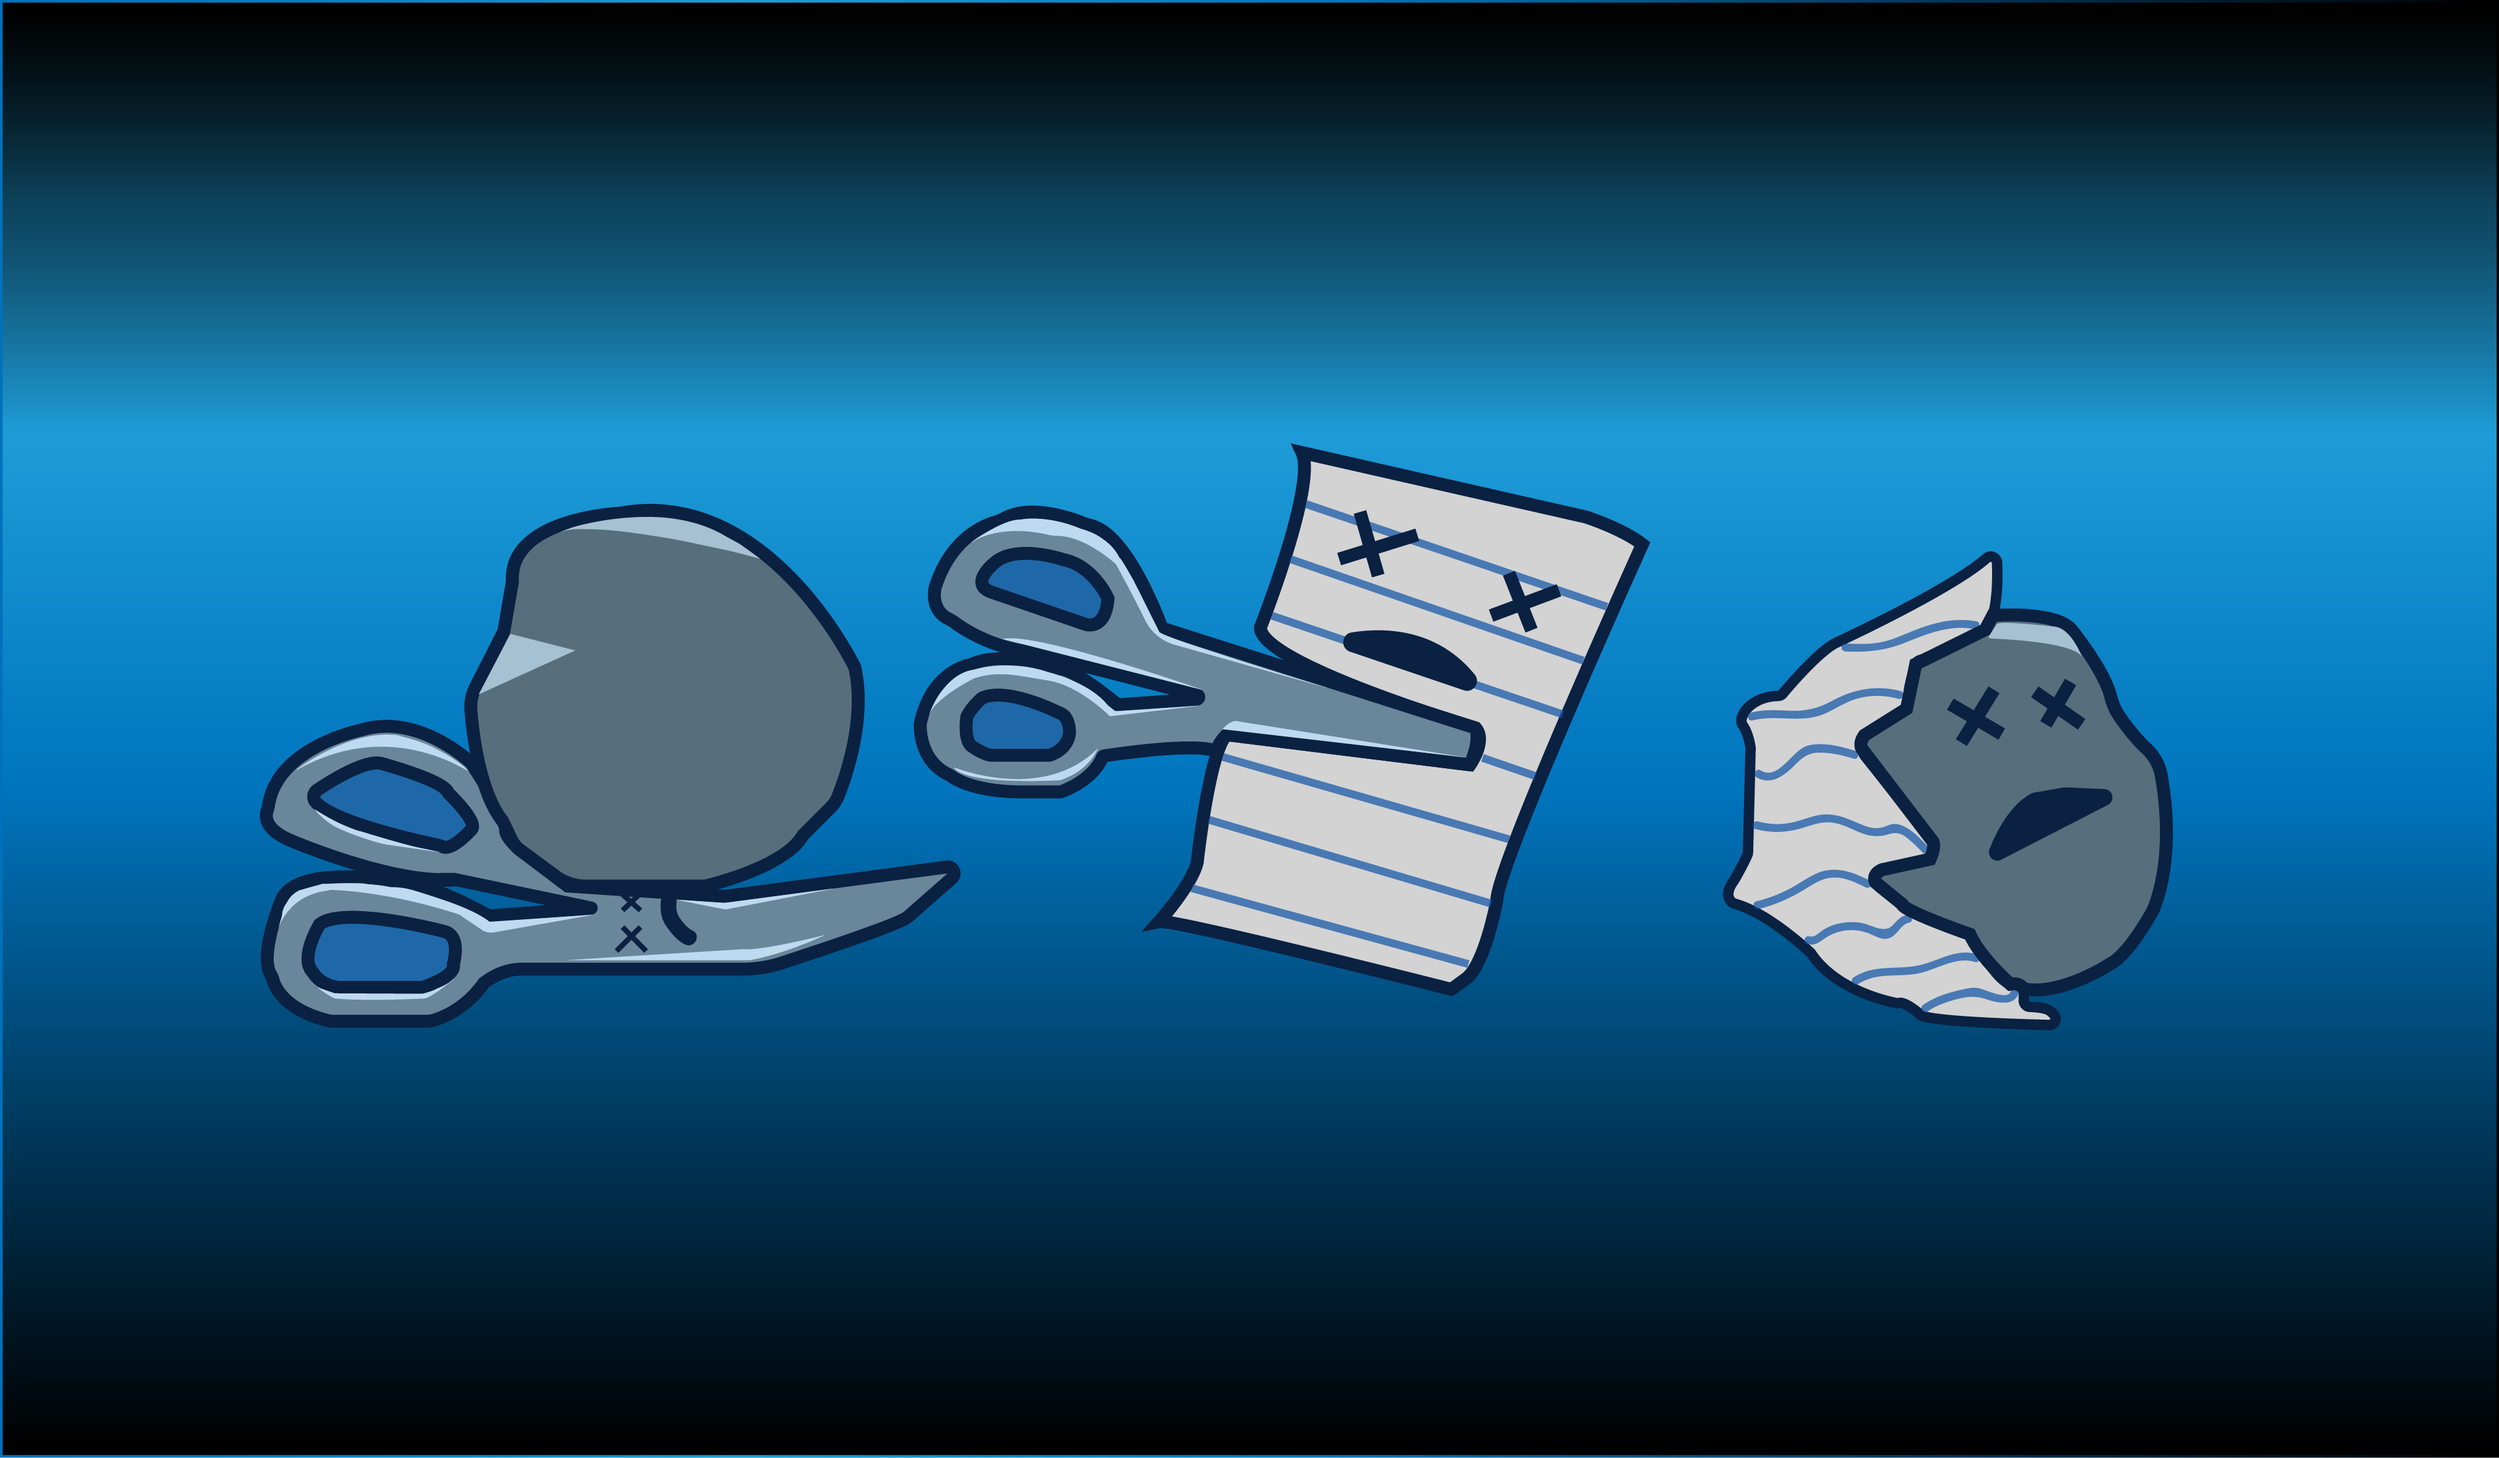
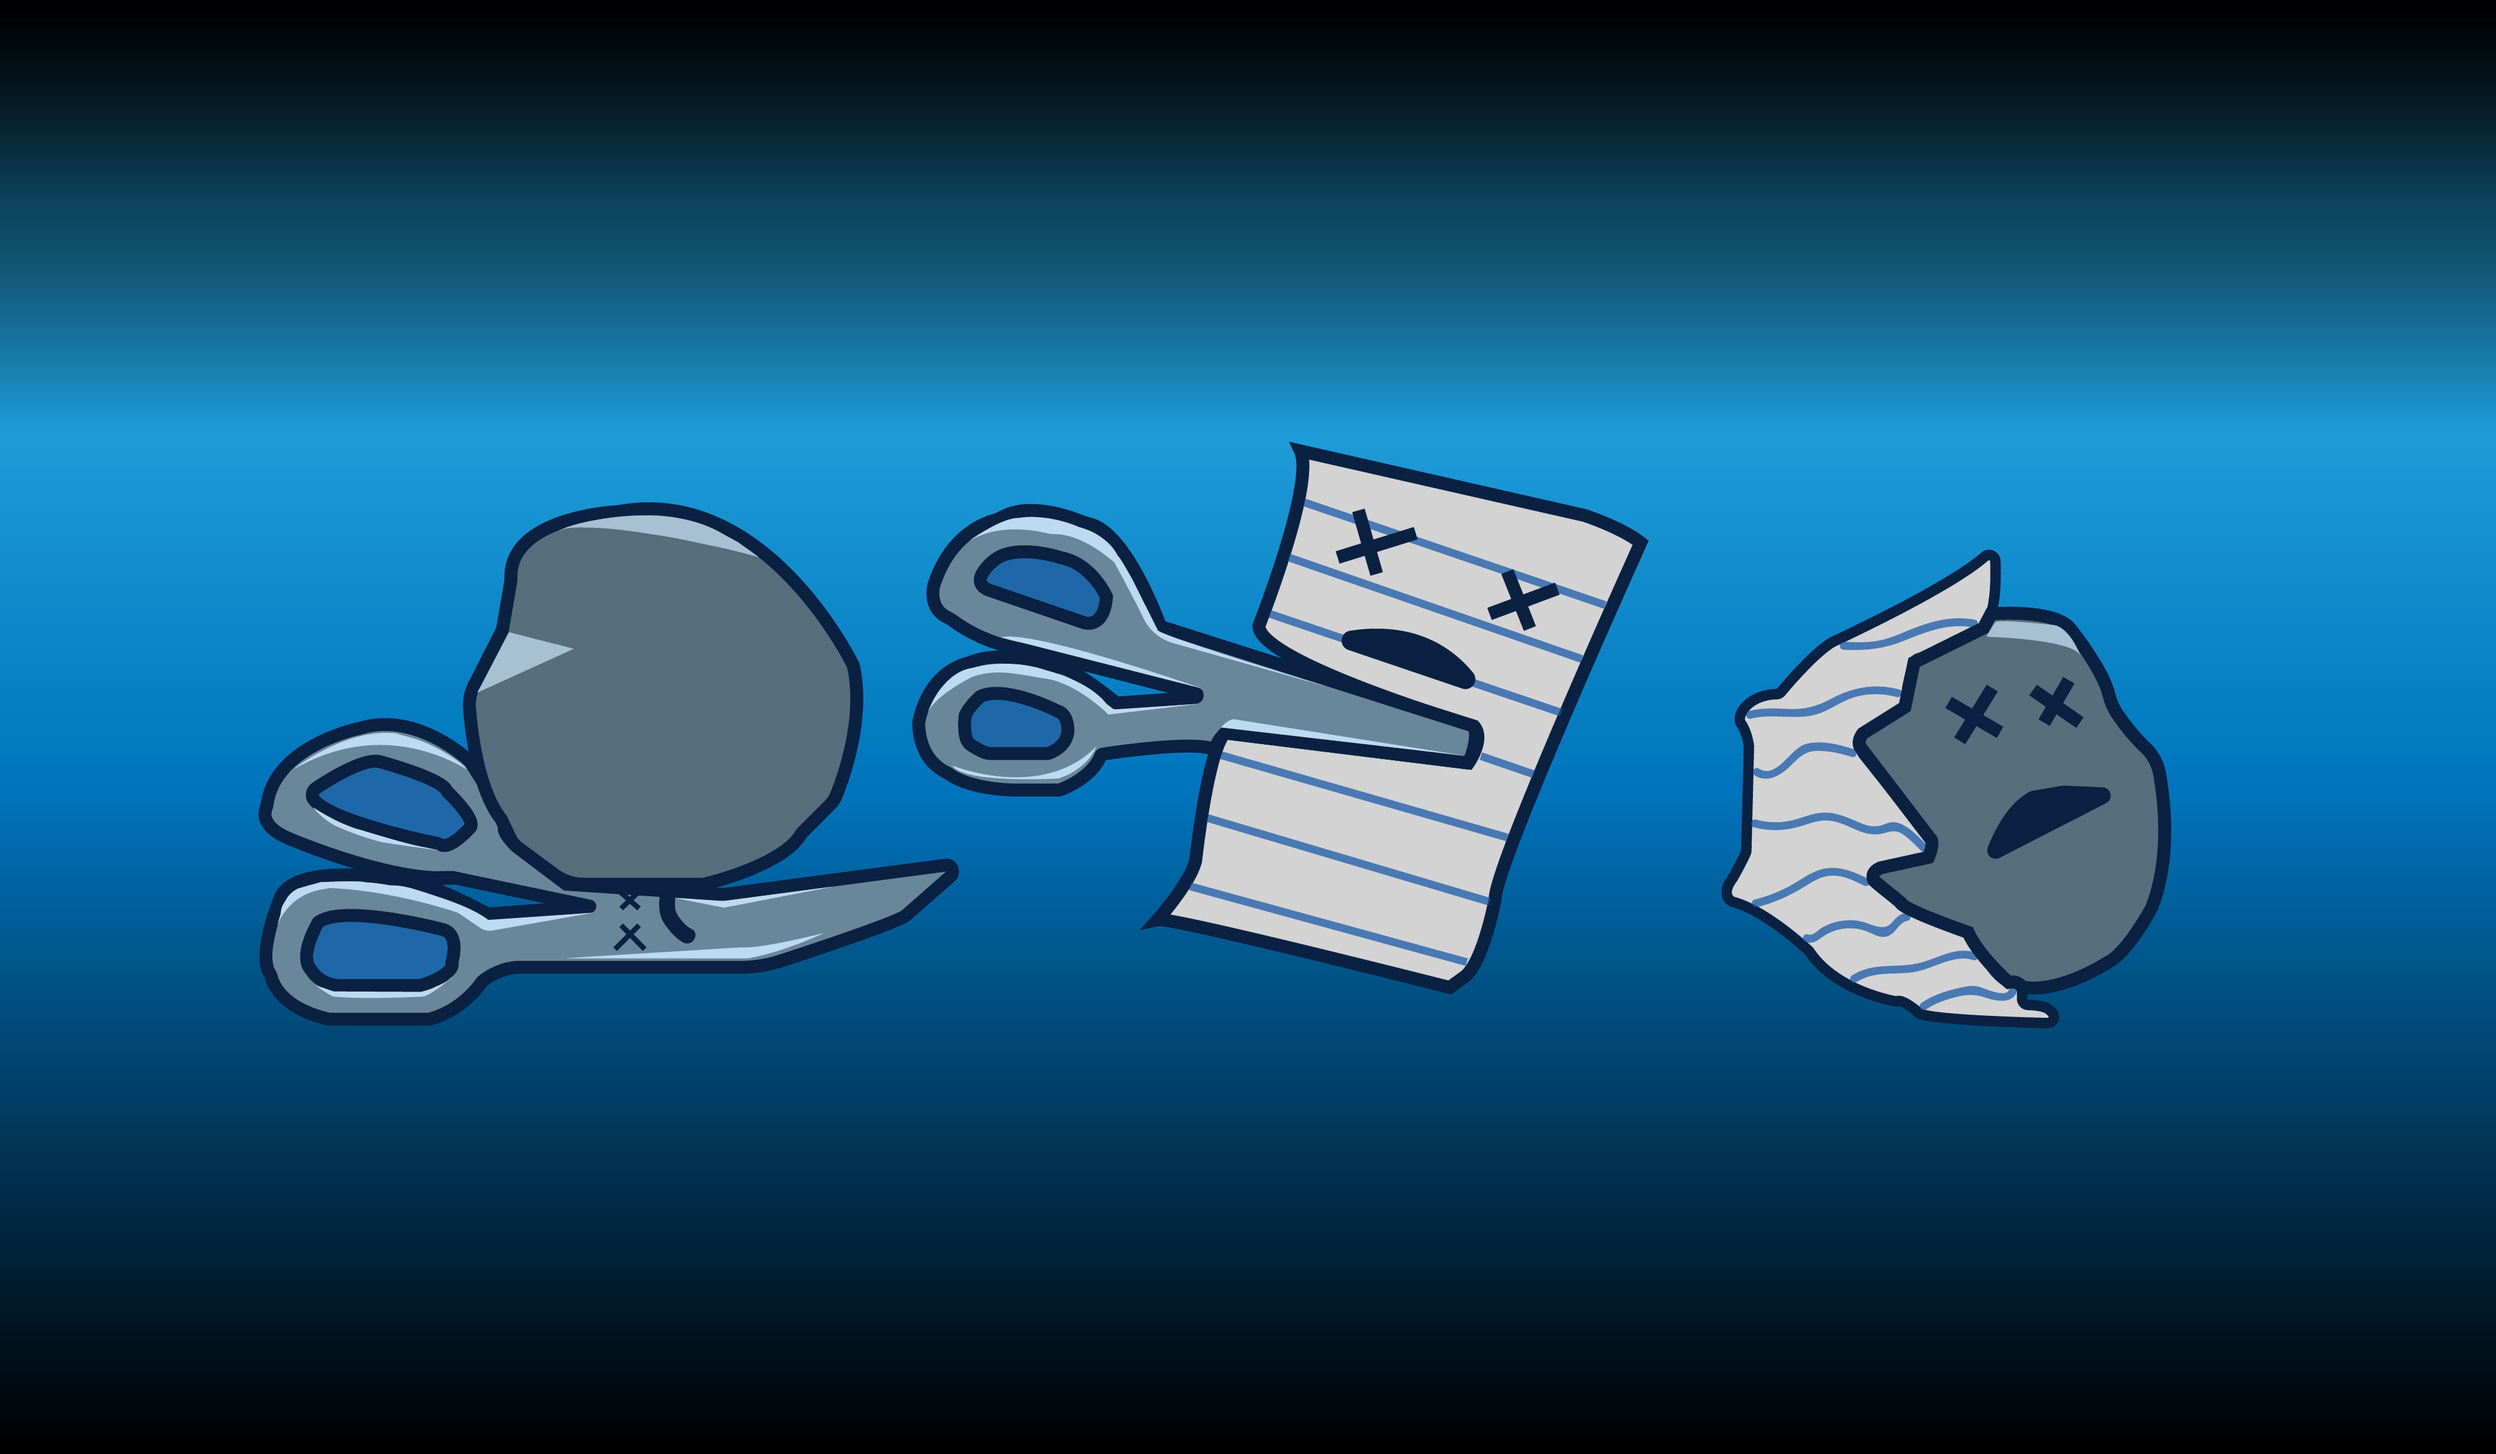
smlcss

diff --git a/style.css b/style.css
@@ -1,34 +1,30 @@
 *{
     margin:0;
-    font-family: Asap,sans-serif;
     padding:0;
+    font-family: Asap,sans-serif;
     box-sizing: border-box ;
-}
-body,html{
-
-    height: 100%;
-    width: 100%;
 }
 section {
     height: 100vh;
 }
 #page1{
-
     background-image: url(img/clone.jpg);
-     background-attachment: fixed; 
+    background-attachment: fixed; 
     background-repeat:no-repeat;
-    background-size:cover;
+    background-size:100% 100%;
     background-position:center;
-    text-shadow: 0 0 15px rgba(255, 255, 255, 0.308), 0 0 10px rgba(255, 255, 255, 0.308);
+    
 }
+
 #page1 h1{
-padding: 0%;
 color: white;
-text-align: center;
+text-shadow: 0 0 15px rgba(255, 255, 255, 0.308), 0 0 10px rgba(255, 255, 255, 0.308);
 font-weight: bold;
-margin: 0%;
+text-align: center;
 font-size: 3.5em;
 padding-top: 3%;
+margin: auto;
+display: table;
 white-space: nowrap;
 overflow: visible;
 height: 90vh;
@@ -58,6 +54,8 @@ header > h1{
     text-align: center;
     font-family:'Asap', sans-serif;
     font-weight: bold;
+    white-space: nowrap;
+    overflow: visible;
     padding: 20px;
 
 }
@@ -104,8 +102,11 @@ font-size: 25px;
 .choices{
 margin-top: 30px;
 text-align: center;
+white-space: nowrap;
+overflow: visible;
 }
 .choice{
+    
 display: inline-block;
 padding: 15px;
 margin-top: 0px;
@@ -124,108 +125,66 @@ transition: all 0.3s ease;
     text-align: center;
     font-size: 30px;
     margin-top: 15px;
+    white-space: nowrap;
+overflow: visible;
 }
 
 .res > p{
-
+    white-space: nowrap;
+    overflow: visible;
 text-align: center;
 color:rgb(255, 255, 255);
 font-size: 40px;
 margin-top: 20px;
-
 }
 #page2{
-    background-image: url(img/SECTION2.svg);
-    background-size: cover;
+    background-image: url(img/SECTION2.jpg);
+    background-position: center;
+    background-size: 100% 100%;
+}
+@media screen and (max-width: 1000px) and (min-width: 700px) 
+{
+    .lol, .scoreboard,#ffs, .choices, .end,#page2 h1{
+        transform: scale(0.9);
+        -moz-transform: scale(0.9);
+    }
 }
 
-  @media screen and (max-width: 1000px) and (min-width: 900px) {
-    /* For mobile phones: */
-    #page1 h1, #page2 h1,#fire,#userlabel,#complabel,#userscore,#compscore,#r,#p,#s,#actionmsg,#pls{
-    transform: scale(0.9);
-    -moz-transform: scale(0.9);
+@media screen and (max-width: 830px) and (min-width: 750px) 
+{
+    .lol, .scoreboard,#ffs, .choices, .end,#page2 h1{
+        transform: scale(0.8);
+        -moz-transform: scale(0.8);
+    }
 }
-.choices{
 
-    padding: 10px;
+@media screen and (max-width: 749px) and (min-width: 680px) 
+{
+    .lol, .scoreboard,#ffs, .choices, .end,#page2 h1{
+        transform: scale(0.7);
+        -moz-transform: scale(0.7);
+    }
 }
-    .scoreboard{
-    width: 250px;       
-}
-  }
-  @media screen and (max-width: 899px) and (min-width: 800px) {
-    /* For mobile phones: */
-    #page1 h1, #page2 h1,#fire,#userlabel,#complabel,#userscore,#compscore,#r,#p,#s,#actionmsg,#pls{
-    transform: scale(0.8);
-    -moz-transform: scale(0.8);
-}
-.choices{
 
-    padding: 10px;
-}
-    .scoreboard{
-    width: 200px;       
-}
-  }
-  @media screen and (max-width: 799px) and (min-width: 700px) {
-    /* For mobile phones: */
-    #page1 h1, #page2 h1,#fire,#userlabel,#complabel,#userscore,#compscore,#r,#p,#s,#actionmsg,#pls{
-    transform: scale(0.7);
-    -moz-transform: scale(0.7);
-}
-.choices{
+@media screen and (max-width: 679px) and (min-width: 580px) 
+{
+    .lol, .scoreboard,#ffs, .choices, .end, #page2 h1{
+        transform: scale(0.6);
+        -moz-transform: scale(0.6);
+    }
+ }
 
-    padding: 7px;
+@media screen and (max-width: 579px) and (min-width: 300px) 
+{
+    .lol, .scoreboard,#ffs, .choices, .end, #page2 h1{
+        transform: scale(0.5);
+        -moz-transform: scale(0.5);
+    }
 }
-    .scoreboard{
-    width: 180px;       
+@media screen and (max-width: 279px) and (min-width: 0px) 
+{
+    .lol, .scoreboard,#ffs, .choices, .end, #page2 h1{
+        transform: scale(0.4);
+        -moz-transform: scale(0.4);
+    }
 }
-  }
-  @media screen and (max-width: 699px) and (min-width: 650px) {
-    /* For mobile phones: */
-    #page1 h1, #page2 h1,#fire,#userlabel,#complabel,#userscore,#compscore,#r,#p,#s,#actionmsg,#pls{
-    transform: scale(0.6);
-    -moz-transform: scale(0.6);
-}
-.choices{
-
-    padding: 7px;
-}
-    .scoreboard{
-    width: 150px;       
-}
-  }
-  @media screen and (max-width: 649px) and (min-width: 500px) {
-    /* For mobile phones: */
-    #page1 h1, #page2 h1,#fire,#userlabel,#complabel,#userscore,#compscore,#r,#p,#s,#actionmsg,#pls{
-    transform: scale(0.5);
-    -moz-transform: scale(0.5);
-    overflow: visible;
-    white-space:nowrap ;
-}
-.choices{
-
-    padding: 2px;
-}
-    .scoreboard{
-    width: 150px;       
-}
-  }
-  @media screen and (max-width: 499px) and (min-width: 0px) {
-    /* For mobile phones: */
-    #page1 h1, #page2 h1,#fire,#userlabel,#complabel,#userscore,#compscore,#r,#p,#s,#actionmsg,#pls{
-    transform: scale(0.4);
-    -moz-transform: scale(0.4);
-    overflow: visible;
-    white-space:nowrap ;
-}
-.choices{
-
-    padding: 2px;
-    overflow: visible;
-    white-space:nowrap ;
-}
-    .scoreboard{
-    width: 150px;       
-}
-  }

diff --git a/index.html b/index.html
@@ -12,15 +12,14 @@
 
 <body>
   <section id="page1">
-   <h1>Welcome to Rock-Paper-Scissors</h1>    
-    <span id="fire">Scroll to start playing &#128293;</span>
+   <div class="lol" id="ffs"><h1>Welcome to Rock-Paper-Scissors</h1></div>    
+   <div class="lol" id="fire">Sroll to start playing &#128293;</div>
   </section>
   <section id="page2">
     <header>
       <h1>"Rock &#128511;Paper &#128221; Scissors &#9986;, Shoot!"
       </h1>
-    </header>
-    <div class="wrapper">
+     </header>
       <div class="scoreboard">
         <div class="badge" id="userlabel">
           User
@@ -43,11 +42,12 @@
           <img src="img/scissors.png" alt="" width="200px" height="150px">
         </div>
       </div>
-    </div>
+    <div class="end">
     <p id="actionmsg">Make your move</p>
     <div class="res">
       <p id="pls">Result : </p>
     </div>
+  </div>
     </div>
   </section>
 </div>
